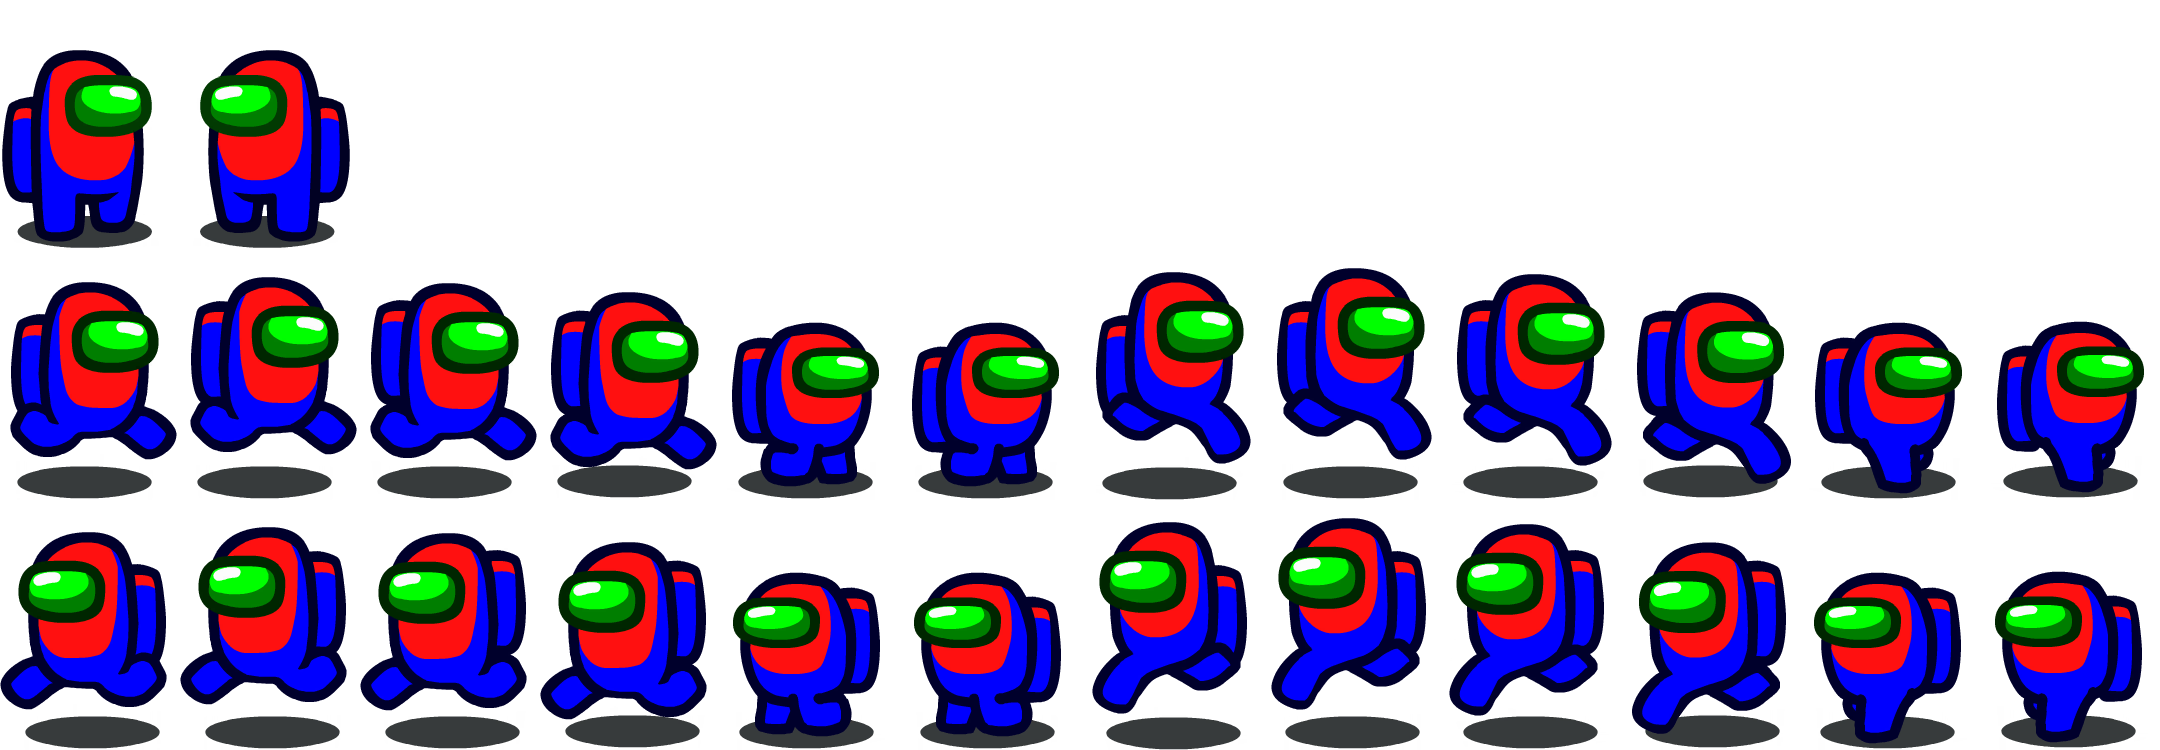
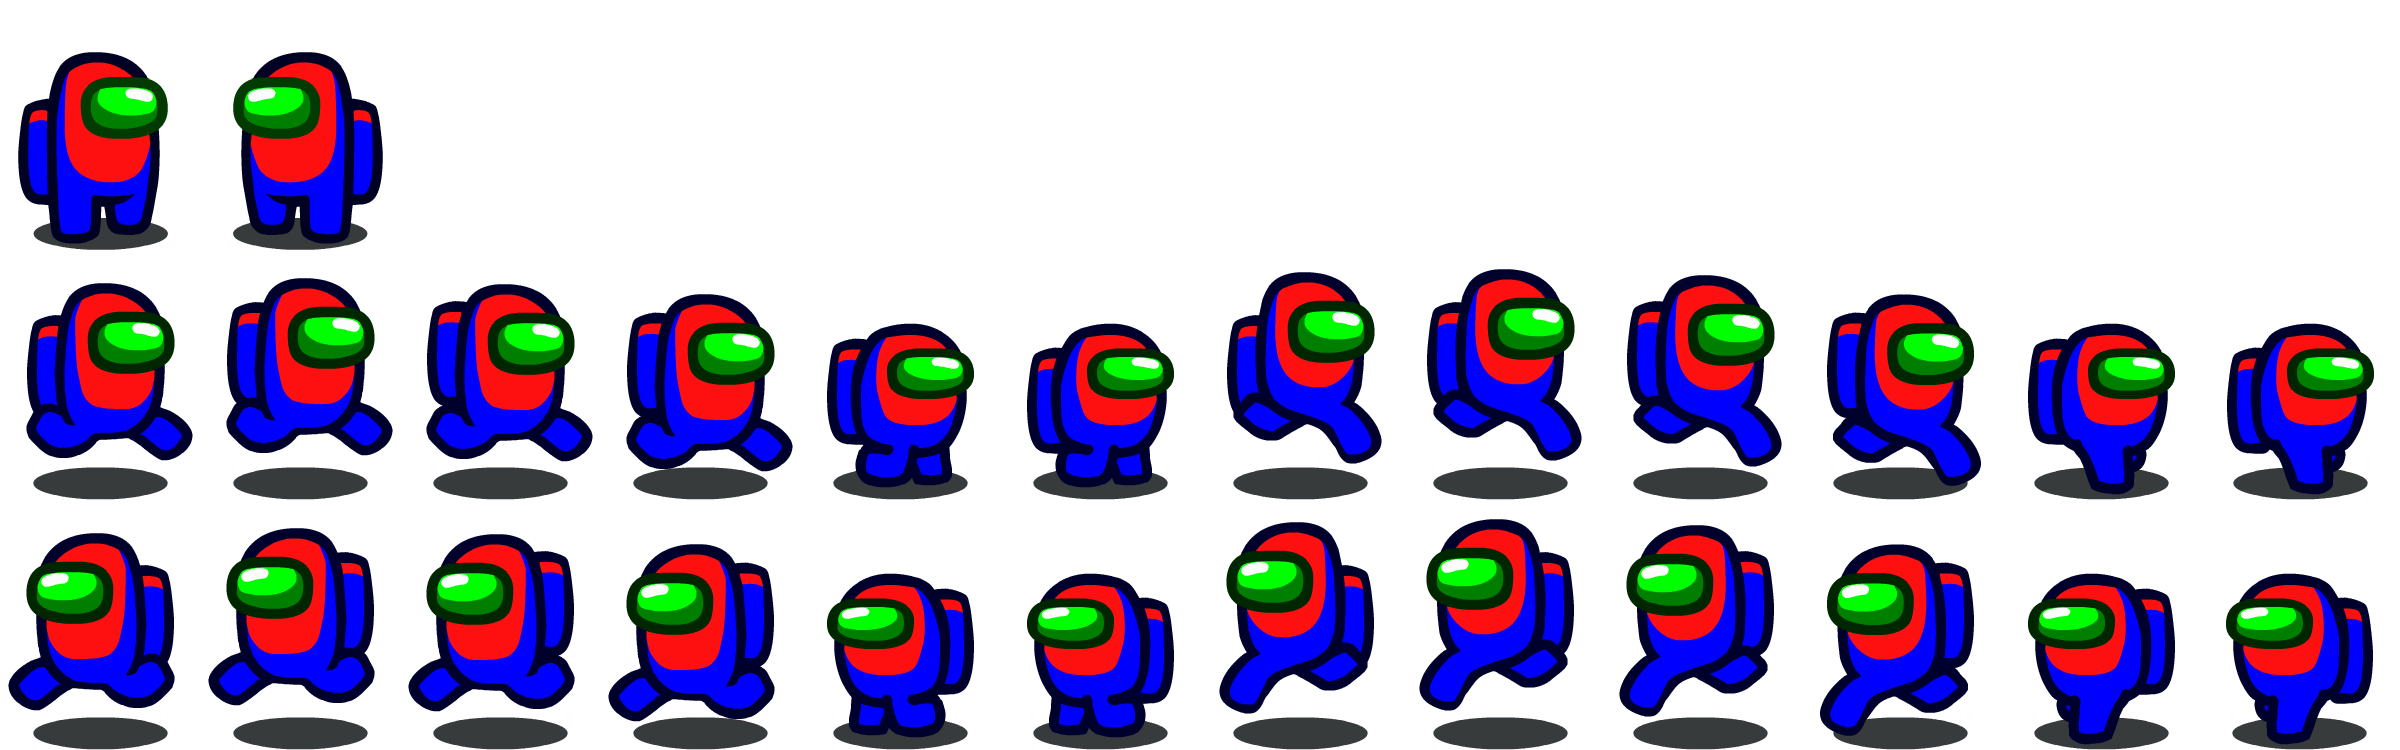
eliminate shadow jitter

diff --git a/amogus.js b/amogus.js
@@ -4,12 +4,12 @@ class Amogus {
 
         this.x = 0;
         this.y = 0;
-        this.width = 180;
+        this.width = 200;
         this.height = 250;
         this.xSpeed = 150;
         this.ySpeed = 75;
         this.animator = new Animator(ASSET_MANAGER.getAsset("./assets/amogus.png"),
-            0, 250, this.width, this.height, 12, 0.05);
+            0, this.height, this.width, this.height, 12, 0.05);
     };
     
     update() {
@@ -17,11 +17,11 @@ class Amogus {
         this.y += this.ySpeed * this.game.clockTick;
         if (this.x > 1024 - this.width / 2 && this.xSpeed > 0) {
             this.xSpeed *= -1;
-            this.animator.yStart += 250;
+            this.animator.yStart += this.height;
         }
         if (this.x < 0 && this.xSpeed < 0) {
             this.xSpeed *= -1;
-            this.animator.yStart -= 250;
+            this.animator.yStart -= this.height;
         }
         if (this.y > 768 - this.height / 2 && this.ySpeed > 0) this.ySpeed *= -1;
         if (this.y < 0 && this.ySpeed < 0) this.ySpeed *= -1;
